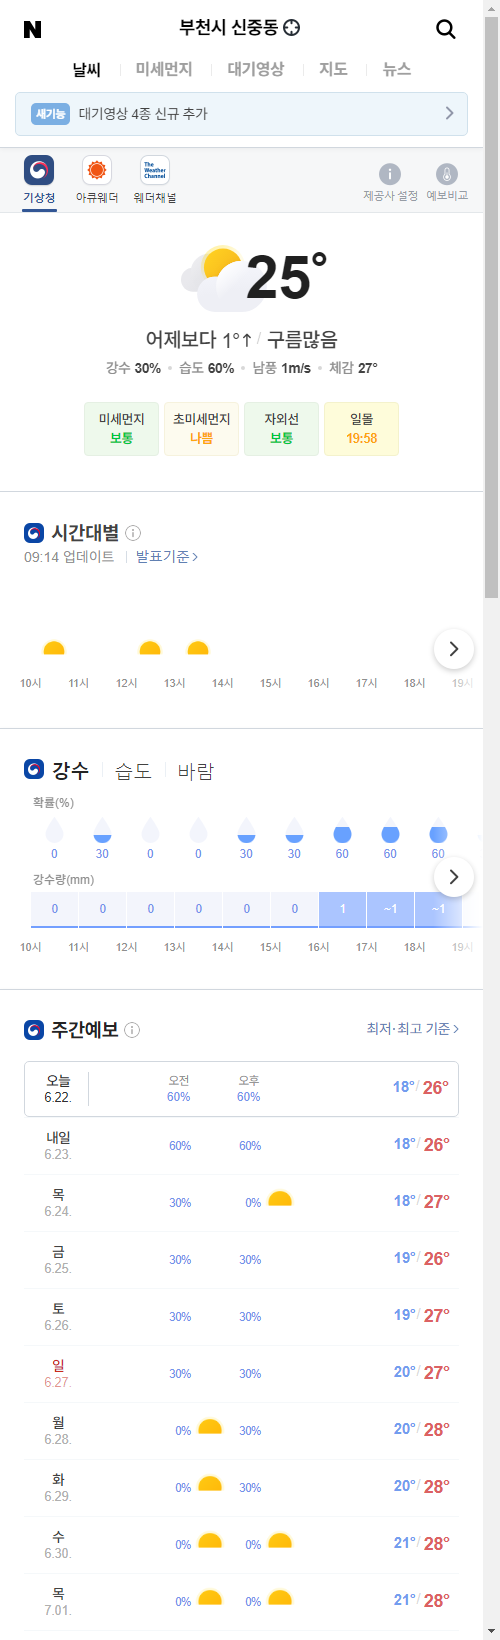
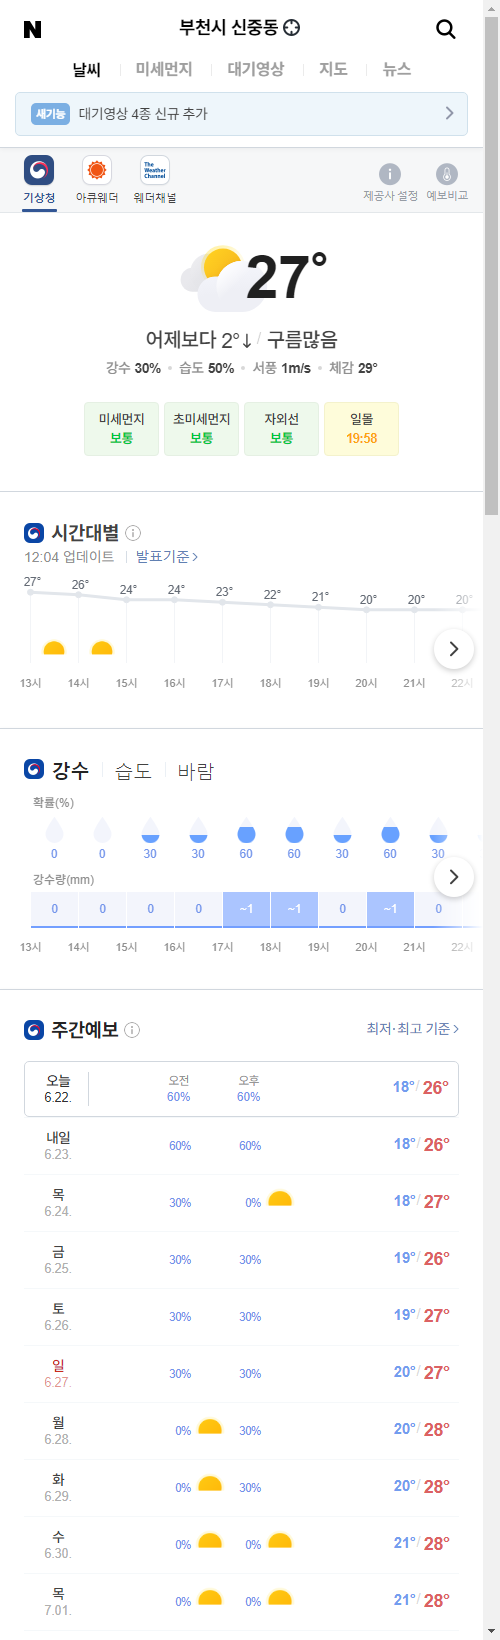
update result

diff --git a/README.md b/README.md
@@ -1,5 +1,5 @@
-##  2021-06-22 09:17:05   화요일 
-##### 날씨   -   어제보다 1° 높아요구름많음  
+##  2021-06-22 12:07:43   화요일 
+##### 날씨   -   어제보다 2° 낮아요구름많음  
 <center><img src="../img/naver_weather_week.png"></center>
 ----
 ----
@@ -16,14 +16,14 @@
 <tr align = "right" > <td>DOW</td><td>33,876.97</td><td>586.89</td><td><font size="3" color="red" >1.76%</font></td><td><font size="3" color="black">0</font></td><td><font size="3" color="black">0</font></td><td>0</td>  </tr>
 <tr align = "right" > <td>NASDAQ</td><td>14,141.48</td><td>111.1</td><td><font size="3" color="red" >0.79%</font></td><td><font size="3" color="black">0</font></td><td><font size="3" color="black">0</font></td><td>0</td>  </tr>
 <tr align = "right" > <td>S&P</td><td>4,224.79</td><td>58.34</td><td><font size="3" color="red" >1.4%</font></td><td><font size="3" color="black">0</font></td><td><font size="3" color="black">0</font></td><td>0</td>  </tr>
-<tr align = "right" > <td>SHANHAI</td><td>3,529.18</td><td>4.09</td><td><font size="3" color="red" >0.12%</font></td><td><font size="3" color="black">0</font></td><td><font size="3" color="black">0</font></td><td>0</td>  </tr>
+<tr align = "right" > <td>SHANHAI</td><td>3,555.94</td><td>26.75</td><td><font size="3" color="red" >0.76%</font></td><td><font size="3" color="black">0</font></td><td><font size="3" color="black">0</font></td><td>0</td>  </tr>
 <tr align = "right" > <td>INDIA</td><td>52,574.46</td><td>230.01</td><td><font size="3" color="red" >0.44%</font></td><td><font size="3" color="black">0</font></td><td><font size="3" color="black">0</font></td><td>0</td>  </tr>
 </table>
 ----
 ##### 시장
 <table border="1" bordercolor="blue" align = "center" >
 <tr align = "right" > <td>Item</td><td>Price</td><td>Diff</td><td>Rate</td><td>Buy</td><td>Sell</td><td>...</td>  </tr>
-<tr align = "right" > <td>USD</td><td>1,132.0</td><td>-0.8</td><td><font size="3" color="blue">-0.07%</font></td><td><font size="3" color="black">1,110</font></td><td><font size="3" color="black">0</font></td><td>0</td>  </tr>
+<tr align = "right" > <td>USD</td><td>1,133.0</td><td>0.0</td><td><font size="3" color="black">0%</font></td><td><font size="3" color="black">1,110</font></td><td><font size="3" color="black">0</font></td><td>0</td>  </tr>
 <tr align = "right" > <td>WTI</td><td>73.12</td><td>1.83</td><td><font size="3" color="red">2.56%</font></td><td><font size="3" color="black">29.0</font></td><td><font size="3" color="black">0</font></td><td>0</td>  </tr>
 <tr align = "right" > <td>GOLD</td><td>1,782.0</td><td>13.9</td><td><font size="3" color="red">0.78%</font></td><td><font size="3" color="black">0</font></td><td><font size="3" color="black">0</font></td><td>0</td>  </tr>
 </table>
@@ -31,26 +31,26 @@
 ##### 주가
 <table border="1" bordercolor="blue" align = "center" >
 <tr align = "right" > <td>Item</td><td>Price</td><td>Diff</td><td>Rate</td><td>Purchased</td><td>Sell</td><td>Buy</td>  </tr>
-<tr align = "right" > <td>한국 전력</td><td>25,250</td><td>200</td><td><font size="3" color="red">0.8%</font></td><td>25,720</td><td><font size="3" color="black">27,700</font></td><td><font size="3" color="black">20,700</font></td>  </tr>
-<tr align = "right" > <td>삼성엔지니어.</td><td>24,400</td><td>300</td><td><font size="3" color="red">1.24%</font></td><td>18,935</td><td><font size="3" color="black">20,000</font></td><td><font size="3" color="black">8,000</font></td>  </tr>
+<tr align = "right" > <td>한국 전력</td><td>25,050</td><td>0</td><td><font size="3" color="black">0.0%</font></td><td>25,720</td><td><font size="3" color="black">27,700</font></td><td><font size="3" color="black">20,700</font></td>  </tr>
+<tr align = "right" > <td>삼성엔지니어.</td><td>26,000</td><td>1,900</td><td><font size="3" color="red">7.88%</font></td><td>18,935</td><td><font size="3" color="black">20,000</font></td><td><font size="3" color="black">8,000</font></td>  </tr>
 <tr align = "right" > <td>CJ CGV</td><td>31,250</td><td>350</td><td><font size="3" color="red">1.13%</font></td><td>34,895</td><td><font size="3" color="black">36,000</font></td><td><font size="3" color="black">0</font></td>  </tr>
-<tr align = "right" > <td>아모레퍼시픽</td><td>276,500</td><td>-1,500</td><td><font size="3" color="blue">-0.54%</font></td><td>235,350</td><td><font size="3" color="black">240,000</font></td><td><font size="3" color="black">130,000</font></td>  </tr>
+<tr align = "right" > <td>아모레퍼시픽</td><td>275,000</td><td>-3,000</td><td><font size="3" color="blue">-1.08%</font></td><td>235,350</td><td><font size="3" color="black">240,000</font></td><td><font size="3" color="black">130,000</font></td>  </tr>
 <tr align = "right" > <td>한화</td><td>31,500</td><td>200</td><td><font size="3" color="red">0.64%</font></td><td>25,550</td><td><font size="3" color="black">26,250</font></td><td><font size="3" color="black">26,250</font></td>  </tr>
-<tr align = "right" > <td>NAVER</td><td>395,500</td><td>-1,500</td><td><font size="3" color="blue">-0.38%</font></td><td>147,200</td><td><font size="3" color="black">386,000</font></td><td><font size="3" color="black">286,000</font></td>  </tr>
-<tr align = "right" > <td>LG 화학우</td><td>373,000</td><td>1,000</td><td><font size="3" color="red">0.27%</font></td><td>202,490</td><td><font size="3" color="black">384,000</font></td><td><font size="3" color="orangered">384,000</font></td>  </tr>
-<tr align = "right" > <td>스튜디오드래.</td><td>97,400</td><td>1,100</td><td><font size="3" color="red">1.14%</font></td><td>81,243</td><td><font size="3" color="black">85,200</font></td><td><font size="3" color="black">85,200</font></td>  </tr>
-<tr align = "right" > <td>QV미국IT</td><td>29,440</td><td>195</td><td><font size="3" color="red">0.67%</font></td><td>0</td><td><font size="3" color="black">30,000</font></td><td><font size="3" color="black">20,000</font></td>  </tr>
-<tr align = "right" > <td>삼성 전자우</td><td>73,800</td><td>300</td><td><font size="3" color="red">0.41%</font></td><td>48,250</td><td><font size="3" color="black">56,000</font></td><td><font size="3" color="black">45,000</font></td>  </tr>
+<tr align = "right" > <td>NAVER</td><td>395,000</td><td>-2,000</td><td><font size="3" color="blue">-0.5%</font></td><td>147,200</td><td><font size="3" color="black">386,000</font></td><td><font size="3" color="black">286,000</font></td>  </tr>
+<tr align = "right" > <td>LG 화학우</td><td>377,000</td><td>5,000</td><td><font size="3" color="red">1.34%</font></td><td>202,490</td><td><font size="3" color="black">384,000</font></td><td><font size="3" color="orangered">384,000</font></td>  </tr>
+<tr align = "right" > <td>스튜디오드래.</td><td>97,200</td><td>900</td><td><font size="3" color="red">0.93%</font></td><td>81,243</td><td><font size="3" color="black">85,200</font></td><td><font size="3" color="black">85,200</font></td>  </tr>
+<tr align = "right" > <td>QV미국IT</td><td>29,450</td><td>205</td><td><font size="3" color="red">0.7%</font></td><td>0</td><td><font size="3" color="black">30,000</font></td><td><font size="3" color="black">20,000</font></td>  </tr>
+<tr align = "right" > <td>삼성 전자우</td><td>73,900</td><td>400</td><td><font size="3" color="red">0.54%</font></td><td>48,250</td><td><font size="3" color="black">56,000</font></td><td><font size="3" color="black">45,000</font></td>  </tr>
 <tr align = "right" > <td>LS</td><td>69,300</td><td>500</td><td><font size="3" color="red">0.73%</font></td><td>71,900</td><td><font size="3" color="black">82,000</font></td><td><font size="3" color="black">60,000</font></td>  </tr>
 <tr align = "right" > <td>한화에어로스.</td><td>47,350</td><td>400</td><td><font size="3" color="red">0.85%</font></td><td>25,700</td><td><font size="3" color="black">30,000</font></td><td><font size="3" color="black">24,000</font></td>  </tr>
-<tr align = "right" > <td>카카오</td><td>155,500</td><td>500</td><td><font size="3" color="red">0.32%</font></td><td>405,500</td><td><font size="3" color="black">440,000</font></td><td><font size="3" color="orangered">400,000</font></td>  </tr>
-<tr align = "right" > <td>호텔 신라</td><td>96,600</td><td>1,100</td><td><font size="3" color="red">1.15%</font></td><td>72,800</td><td><font size="3" color="black">100,000</font></td><td><font size="3" color="black">70,000</font></td>  </tr>
-<tr align = "right" > <td>S-Oil</td><td>103,000</td><td>2,500</td><td><font size="3" color="red">2.49%</font></td><td>62,842</td><td><font size="3" color="black">100,000</font></td><td><font size="3" color="black">50,000</font></td>  </tr>
-<tr align = "right" > <td>LG전자</td><td>161,000</td><td>500</td><td><font size="3" color="red">0.31%</font></td><td>82,022</td><td><font size="3" color="black">100,000</font></td><td><font size="3" color="black">60,000</font></td>  </tr>
-<tr align = "right" > <td>KT&G</td><td>84,500</td><td>100</td><td><font size="3" color="red">0.12%</font></td><td>80,400</td><td><font size="3" color="black">100,000</font></td><td><font size="3" color="black">70,000</font></td>  </tr>
-<tr align = "right" > <td>지역난방공사</td><td>44,450</td><td>100</td><td><font size="3" color="red">0.23%</font></td><td>43,590</td><td><font size="3" color="black">60,000</font></td><td><font size="3" color="black">30,000</font></td>  </tr>
+<tr align = "right" > <td>카카오</td><td>156,500</td><td>1,500</td><td><font size="3" color="red">0.97%</font></td><td>405,500</td><td><font size="3" color="black">440,000</font></td><td><font size="3" color="orangered">400,000</font></td>  </tr>
+<tr align = "right" > <td>호텔 신라</td><td>97,300</td><td>1,800</td><td><font size="3" color="red">1.88%</font></td><td>72,800</td><td><font size="3" color="black">100,000</font></td><td><font size="3" color="black">70,000</font></td>  </tr>
+<tr align = "right" > <td>S-Oil</td><td>106,000</td><td>5,500</td><td><font size="3" color="red">5.47%</font></td><td>62,842</td><td><font size="3" color="black">100,000</font></td><td><font size="3" color="black">50,000</font></td>  </tr>
+<tr align = "right" > <td>LG전자</td><td>159,500</td><td>-1,000</td><td><font size="3" color="blue">-0.62%</font></td><td>82,022</td><td><font size="3" color="black">100,000</font></td><td><font size="3" color="black">60,000</font></td>  </tr>
+<tr align = "right" > <td>KT&G</td><td>84,100</td><td>-300</td><td><font size="3" color="blue">-0.36%</font></td><td>80,400</td><td><font size="3" color="black">100,000</font></td><td><font size="3" color="black">70,000</font></td>  </tr>
+<tr align = "right" > <td>지역난방공사</td><td>44,400</td><td>50</td><td><font size="3" color="red">0.11%</font></td><td>43,590</td><td><font size="3" color="black">60,000</font></td><td><font size="3" color="black">30,000</font></td>  </tr>
 <tr align = "right" > <td>KOEDX은행</td><td>7,525</td><td>95</td><td><font size="3" color="red">1.28%</font></td><td>5,178</td><td><font size="3" color="black">6,225</font></td><td><font size="3" color="black">6,225</font></td>  </tr>
-<tr align = "right" > <td>글로벌럭셔리</td><td>18,045</td><td>215</td><td><font size="3" color="red">1.21%</font></td><td>15,260</td><td><font size="3" color="black">20,000</font></td><td><font size="3" color="black">10,000</font></td>  </tr>
-<tr align = "right" > <td>한국금융지주</td><td>102,500</td><td>1,000</td><td><font size="3" color="red">0.99%</font></td><td>0</td><td><font size="3" color="black">82,000</font></td><td><font size="3" color="black">60,000</font></td>  </tr>
+<tr align = "right" > <td>글로벌럭셔리</td><td>18,080</td><td>250</td><td><font size="3" color="red">1.4%</font></td><td>15,260</td><td><font size="3" color="black">20,000</font></td><td><font size="3" color="black">10,000</font></td>  </tr>
+<tr align = "right" > <td>한국금융지주</td><td>104,500</td><td>3,000</td><td><font size="3" color="red">2.96%</font></td><td>0</td><td><font size="3" color="black">82,000</font></td><td><font size="3" color="black">60,000</font></td>  </tr>
 </table>
 ----
